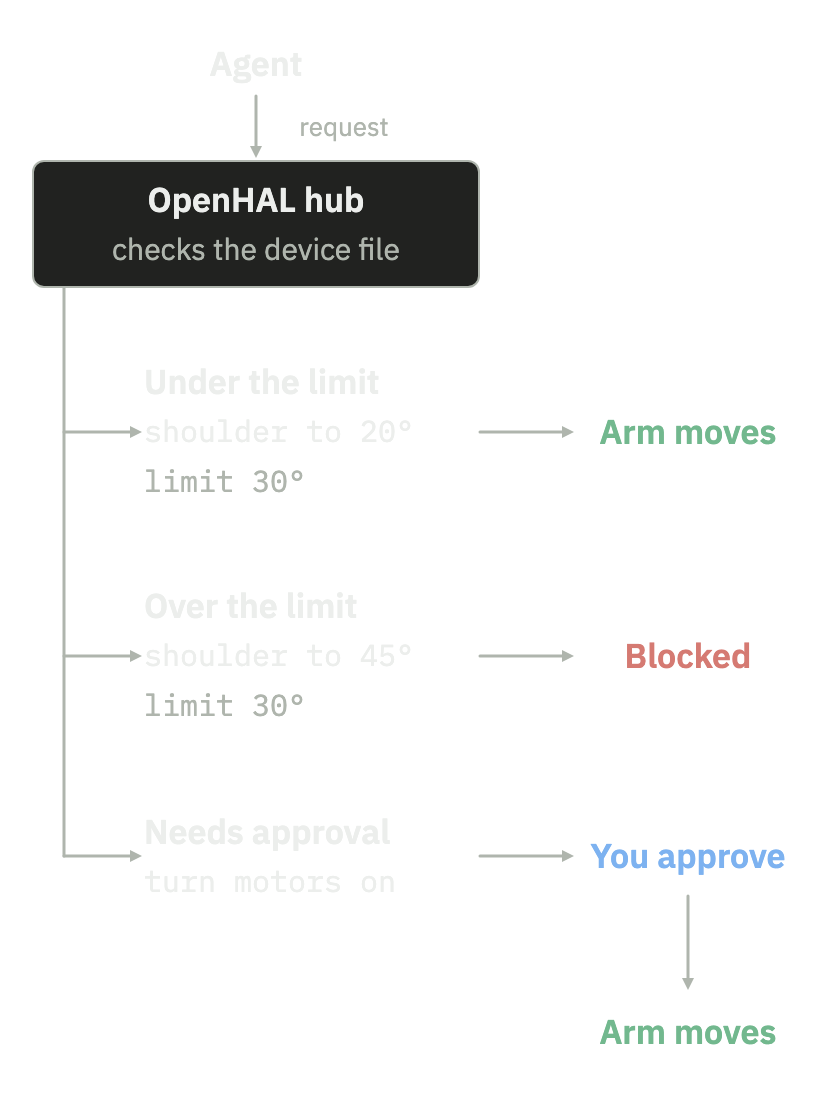
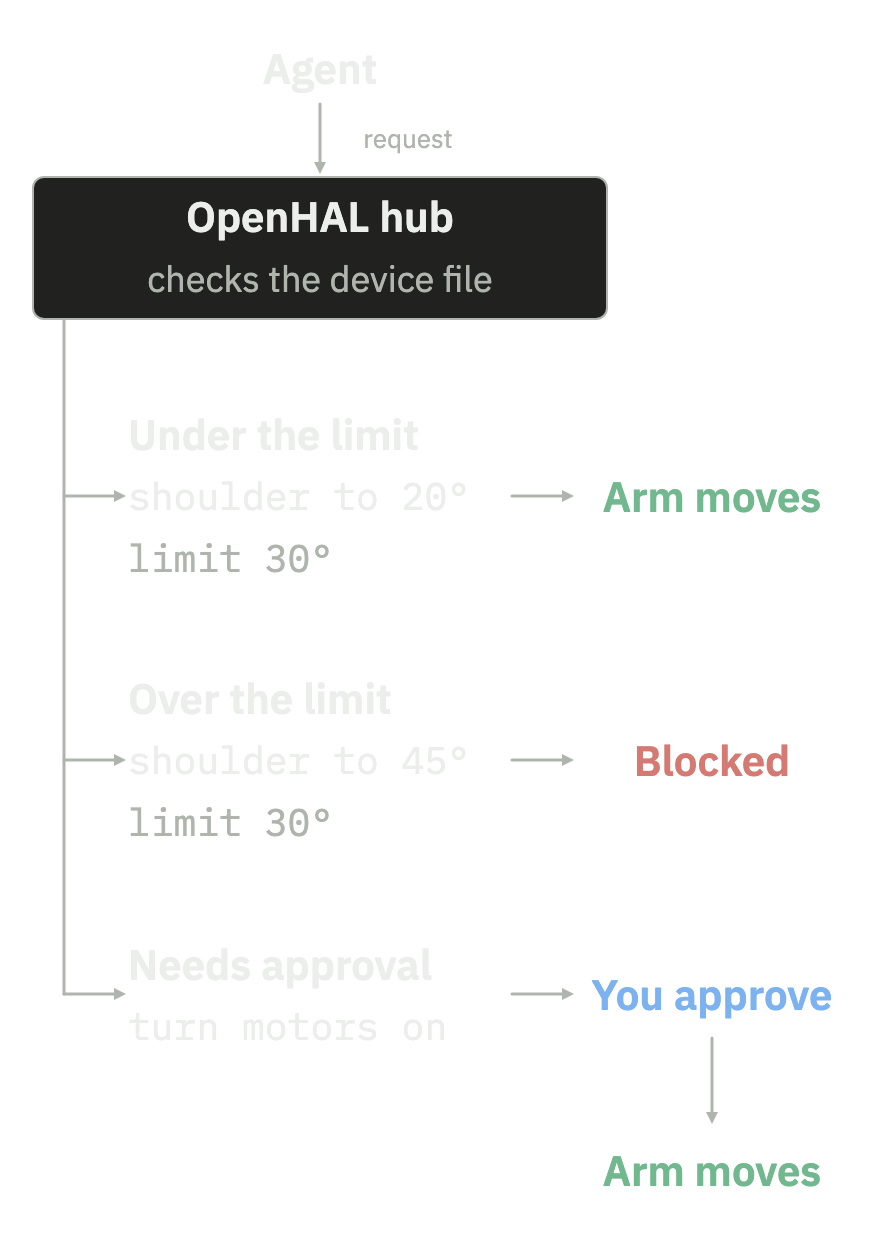
fix(website): larger text in the phone chart, and a link that names the 3D printer example
The phone chart's values showed about 10 px tall on a 360 px phone. The Claude
Design canvas now sets the phone artboards larger, so the values show about
14 px tall. The link under the arm chart now says it leads to a 3D printer
example, and drops the colon.

diff --git a/website/tests/e2e/example.spec.ts b/website/tests/e2e/example.spec.ts
@@ -59,7 +59,7 @@ test.describe("the full example page", () => {
 
   test("is linked from How it works on the home page and from the quickstart", async ({ page }) => {
     await page.goto("/");
-    await expect(page.getByRole("link", { name: "See the full example: an agent watching a 3D print overnight" })).toHaveAttribute("href", EXAMPLE.href);
+    await expect(page.getByRole("link", { name: "See a full example with a 3D printer" })).toHaveAttribute("href", EXAMPLE.href);
     await page.goto("/docs/quickstart/");
     await expect(page.locator("main").getByRole("link", { name: "The full example" })).toHaveAttribute("href", EXAMPLE.href);
   });

diff --git a/website/src/lib/story/how.ts b/website/src/lib/story/how.ts
@@ -8,7 +8,7 @@
 export const CHART_FILES = ["how-it-works-wide-light.png", "how-it-works-wide-dark.png", "how-it-works-narrow-light.png", "how-it-works-narrow-dark.png"] as const;
 
 /** Each shape's size in CSS pixels. The files are 2x exports of these sizes. */
-export const CHART_SIZES = { wide: { width: 884, height: 544 }, narrow: { width: 416, height: 552 } } as const;
+export const CHART_SIZES = { wide: { width: 884, height: 544 }, narrow: { width: 440, height: 623 } } as const;
 
 /** One path of the chart, its branch label, the values under the branch and the outcomes in order. */
 export interface HowPath {

diff --git a/website/tests/e2e/how.spec.ts b/website/tests/e2e/how.spec.ts
@@ -68,7 +68,7 @@ test.describe("How it works", () => {
 
   test("ends with a link to the full example", async ({ page }) => {
     await page.goto("/");
-    const link = page.getByRole("link", { name: "See the full example: an agent watching a 3D print overnight" });
+    const link = page.getByRole("link", { name: "See a full example with a 3D printer" });
     await expect(link).toHaveAttribute("href", "/docs/examples/3d-print-watch/");
     await link.click();
     await expect(page.locator("h1")).toHaveText("Example: an agent watching a 3D print");

diff --git a/docs/DESIGN.md b/docs/DESIGN.md
@@ -55,7 +55,7 @@ The hero is centered in the column, which the owner's brief of 2026-10-29 allows
 
 On 2026-11-02 the owner asked for one simple flow chart in place of the scroll story, word for word, "for the how it works section, use a node graph or some tree or something or some very simple flow chart diagram literally this: "The agent sends a request to set the nozzle to 300 °C. Your limit is 260 °C, so the hub blocks the request." is trash ... "The agent sends a request to cancel the print. A cancel can't be undone, so the hub holds the request for your approval" why is every sentence like a slogan keep it simple", and later the same day "also just use a rebotic arm as an example and dont code it directly within the website use claude design to make the flow chart and it can just be static thats fine".
 
-The chart is an illustration of OpenHAL's three outcomes on a robotic arm, not a copy of a device file. The agent sends a request and the OpenHAL hub checks the device file. A shoulder goal of 20° under a limit of 30° moves the arm, a goal of 45° is blocked, and a request to turn the motors on moves the arm once you approve. The outcome words are in the status colors, Arm moves in green, Blocked in red and You approve in blue. The chart was made in Claude Design on the canvas named "OpenHAL How it works" and ships as four static images in docs/assets, wide and narrow in light and dark, 2x PNG exports of 884 by 544 and 416 by 552 CSS pixels. A change to the chart means editing the canvas and exporting the four images again. The page shows the wide chart from 50rem and the narrow one below, follows the site's theme the way the header's wordmark does, and lazy loads the images. A visually hidden caption lists the three paths with the chart's labels word for word, so screen readers get the same content, and nothing in the section moves. A link under the section leads to the full example.
+The chart is an illustration of OpenHAL's three outcomes on a robotic arm, not a copy of a device file. The agent sends a request and the OpenHAL hub checks the device file. A shoulder goal of 20° under a limit of 30° moves the arm, a goal of 45° is blocked, and a request to turn the motors on moves the arm once you approve. The outcome words are in the status colors, Arm moves in green, Blocked in red and You approve in blue. The chart was made in Claude Design on the canvas named "OpenHAL How it works" and ships as four static images in docs/assets, wide and narrow in light and dark, 2x PNG exports of 884 by 544 and 440 by 623 CSS pixels. The narrow chart sets its text larger, so the values stay about 14 px tall on a 360 px phone. A change to the chart means editing the canvas and exporting the four images again. The page shows the wide chart from 50rem and the narrow one below, follows the site's theme the way the header's wordmark does, and lazy loads the images. A visually hidden caption lists the three paths with the chart's labels word for word, so screen readers get the same content, and nothing in the section moves. A link under the section, "See a full example with a 3D printer", leads to the full example.
 
 ### The full example
 
